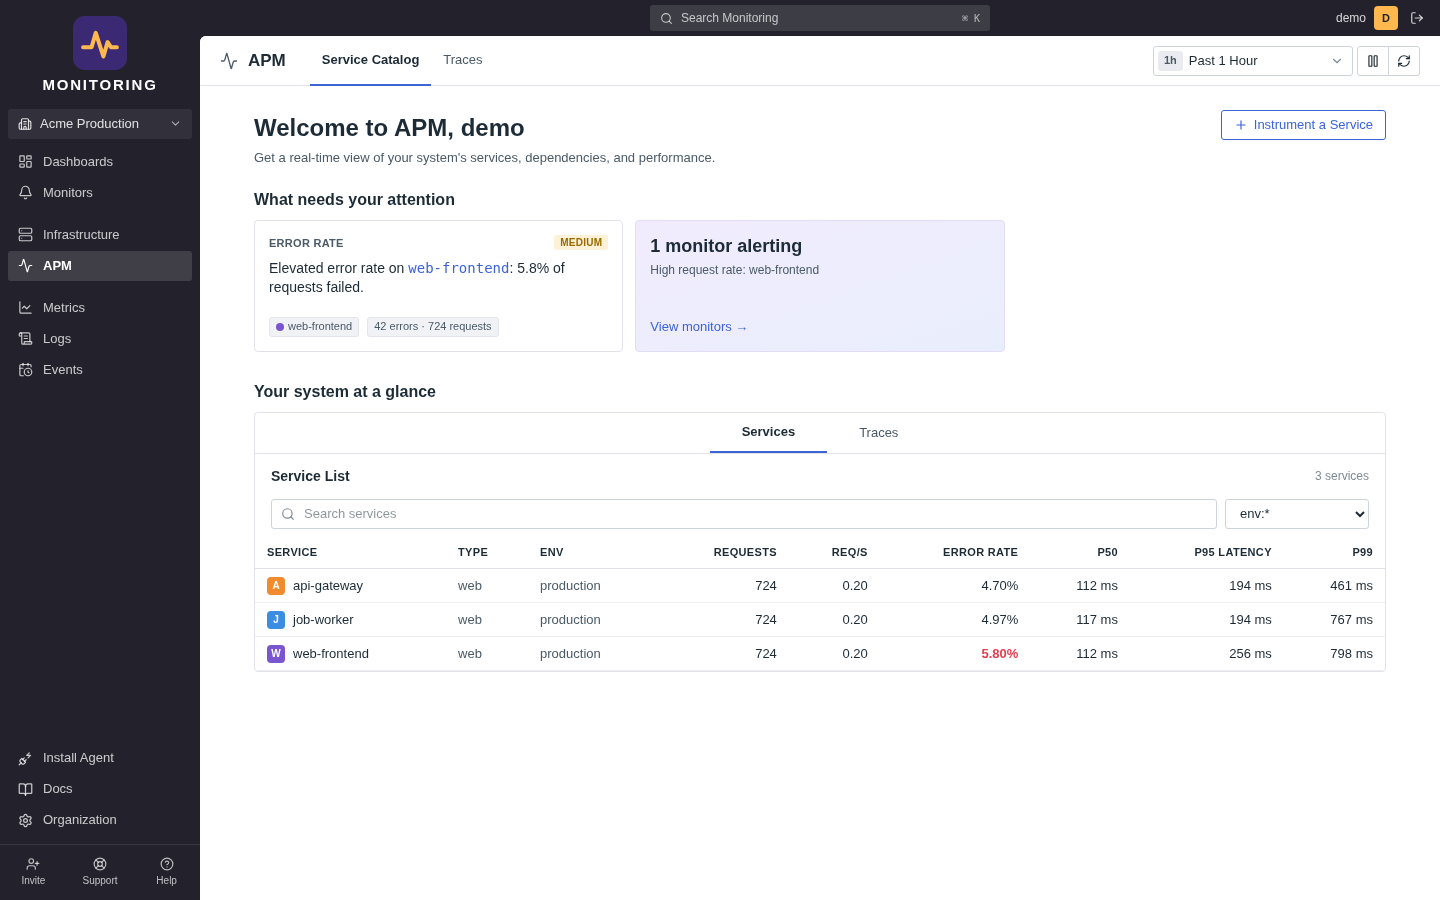
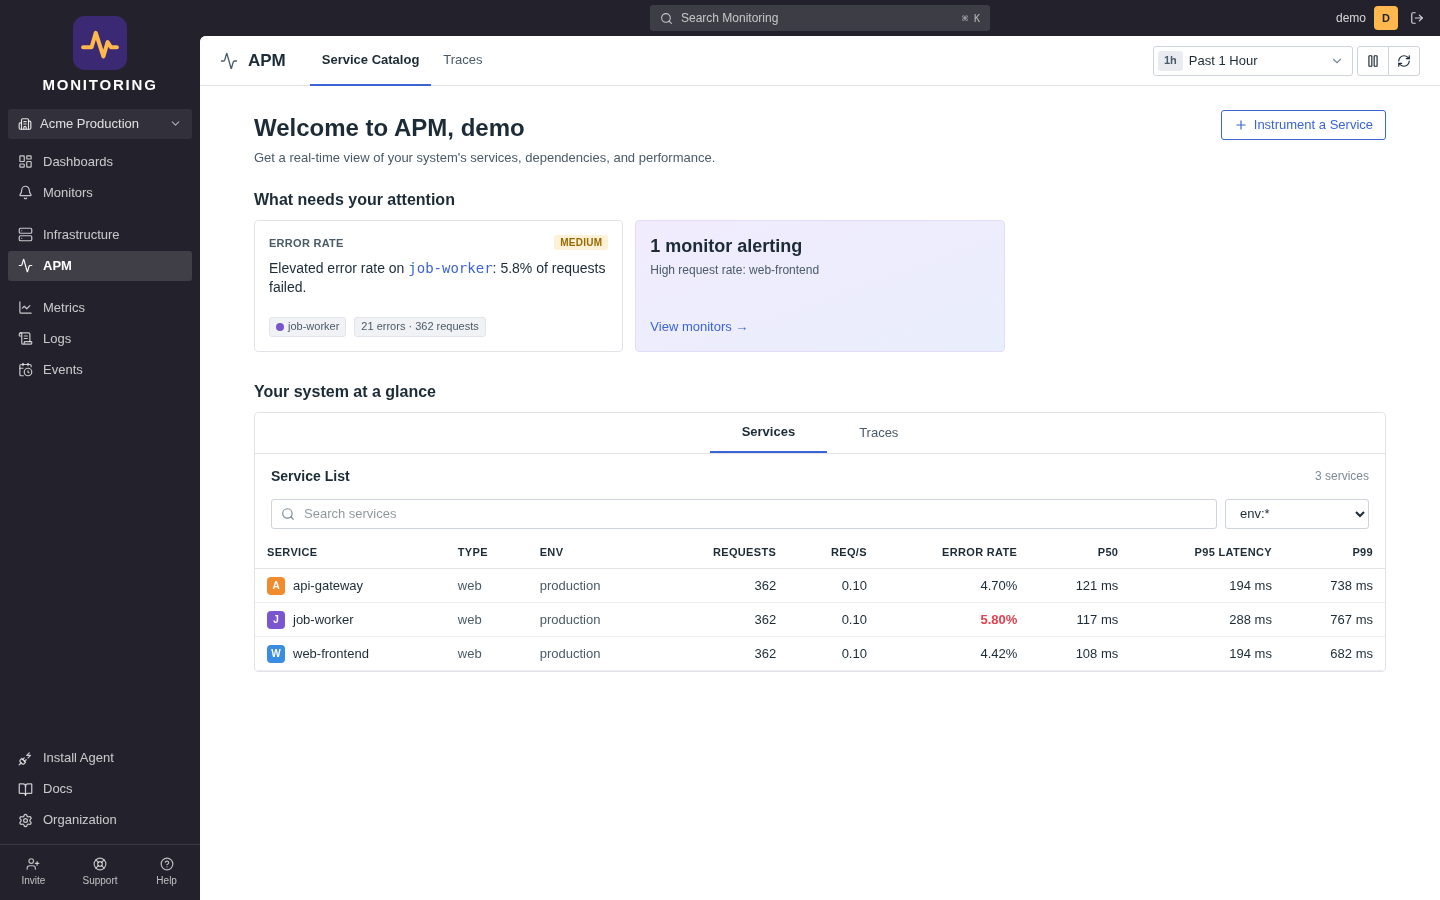
Fix span_stats bootstrap double-count: ensure rollup table + backfill at startup before intake opens (fresh installs counted first-minute spans twice, service catalog showed exactly 2x). Regression bench span-stats-once.js: old build fails 6 checks at exactly 2x, fixed build 10/10; demo reseeded, ca

diff --git a/bench/correctness/span-stats-once.js b/bench/correctness/span-stats-once.js
@@ -1,0 +1,100 @@
+#!/usr/bin/env node
+// Regression: every ingested root span must be counted EXACTLY ONCE in the span_stats rollups.
+//
+//   MONITORING_URL=http://127.0.0.1:4620 MONITORING_SETUP_TOKEN=... DATABASE_URL=postgresql://... node bench/correctness/span-stats-once.js
+//
+// The server must run against a FRESH database (first boot creates span_stats and used to
+// backfill spans that intake had already recorded into its in-memory aggregates, counting
+// them twice - measured 2026-11-21 as exactly 2x root spans on the service catalog).
+// Set MONITORING_STATS_FLUSH_MS low on the server (e.g. 2000) so the flush lands quickly.
+//
+// Asserts, per service: span_stats sum(hits) == raw root spans == traces sent,
+// span_stats sum(errors) == raw error roots == errors sent. Any doubling fails the bench.
+'use strict';
+const http = require('http');
+const crypto = require('crypto');
+const { execSync } = require('child_process');
+
+const DC = process.env.MONITORING_URL || 'http://127.0.0.1:4620';
+const SETUP = process.env.MONITORING_SETUP_TOKEN;
+const RUN = crypto.randomBytes(3).toString('hex');
+const psql = (q) => execSync(`psql "${process.env.DATABASE_URL}" -tAc "${q.replace(/"/g, '\\"')}"`, { encoding: 'utf8' }).trim();
+const sleep = (ms) => new Promise((r) => setTimeout(r, ms));
+const results = [];
+const check = (name, expected, actual, pass) => { results.push({ name, expected, actual, pass: !!pass }); process.stderr.write(`${pass ? 'ok  ' : 'FAIL'} ${name}: expected ${expected}, got ${actual}\n`); };
+
+function req(method, path, body, headers = {}) {
+  return new Promise((resolve) => {
+    const u = new URL(DC + path);
+    const data = body == null ? null : Buffer.from(JSON.stringify(body));
+    const h = { ...(data ? { 'content-type': 'application/json', 'content-length': data.length } : {}), ...headers };
+    const r = http.request({ hostname: u.hostname, port: u.port, path: u.pathname + u.search, method, headers: h }, (res) => {
+      let b = ''; res.on('data', (c) => (b += c)); res.on('end', () => resolve({ status: res.statusCode, headers: res.headers, body: b }));
+    });
+    r.on('error', (e) => resolve({ status: 0, body: String(e.message) }));
+    r.setTimeout(60000, () => r.destroy(new Error('timeout')));
+    if (data) r.write(data); r.end();
+  });
+}
+const json = (r) => { try { return JSON.parse(r.body); } catch { return null; } };
+const ns = (ms) => String(BigInt(ms) * 1000000n);
+
+(async () => {
+  const health = await req('GET', '/api/healthz');
+  if (health.status !== 200) throw new Error(`server not healthy: ${health.status}`);
+  const admin = { email: `stats-${RUN}@monitoring.local`, password: `Stats-${crypto.randomBytes(9).toString('hex')}`, name: 'Stats' };
+  let r = await req('POST', '/api/auth/setup', { ...admin, orgName: `Stats ${RUN}`, setupToken: SETUP });
+  if (r.status !== 200) throw new Error(`setup: ${r.status} ${r.body.slice(0, 200)}`);
+  const login = await req('POST', '/api/auth/login', { email: admin.email, password: admin.password });
+  const cookie = (login.headers['set-cookie'] || []).map((c) => c.split(';')[0]).filter((c) => c.includes('=') && c.split(/=(.*)/s)[1]).join('; ');
+  r = await req('POST', '/api/ui/org/keys', { name: 'stats', kind: 'api' }, { cookie });
+  const key = json(r)?.key;
+  if (!key) throw new Error('no api key');
+
+  // two services with exact known counts: svc1 40 traces + 20 children + 5 errors; svc2 25 traces + 0 children + 3 errors
+  const PLAN = [
+    { service: `stats-a-${RUN}`, traces: 40, children: 20, errors: 5 },
+    { service: `stats-b-${RUN}`, traces: 25, children: 0, errors: 3 },
+  ];
+  const now = Date.now();
+  for (const p of PLAN) {
+    const resourceSpans = [];
+    for (let i = 0; i < p.traces; i++) {
+      const traceId = crypto.randomBytes(16).toString('hex');
+      const rootId = crypto.randomBytes(8).toString('hex');
+      const t = now - 120000 + i * 1000; // inside the current hour, finished minutes
+      const spans = [{ traceId, spanId: rootId, name: `op-${i % 4}`, kind: 2, startTimeUnixNano: ns(t), endTimeUnixNano: ns(t + 50), ...(i < p.errors ? { status: { code: 2 } } : {}) }];
+      if (i < p.children) spans.push({ traceId, spanId: crypto.randomBytes(8).toString('hex'), parentSpanId: rootId, name: 'child', kind: 3, startTimeUnixNano: ns(t), endTimeUnixNano: ns(t + 20) });
+      resourceSpans.push({ resource: { attributes: [{ key: 'service.name', value: { stringValue: p.service } }] }, scopeSpans: [{ scope: { name: 'stats' }, spans }] });
+    }
+    r = await req('POST', '/otlp/v1/traces', { resourceSpans }, { 'dd-api-key': key });
+    if (r.status >= 300) throw new Error(`intake ${p.service}: ${r.status} ${r.body.slice(0, 160)}`);
+  }
+
+  // wait for at least two flush cycles (flush interval is server-side; default 10s)
+  await sleep(Number(process.env.STATS_WAIT_MS ?? 15000));
+
+  let failed = 0;
+  for (const p of PLAN) {
+    const raw = psql(`select count(*), count(*) filter (where parent_id='0'), count(*) filter (where parent_id='0' and error=1) from spans where service='${p.service}'`);
+    const [total, roots, errRoots] = raw.split('\n')[0].split('|').map(Number);
+    const stats = psql(`select coalesce(sum(hits),0), coalesce(sum(errors),0) from span_stats where service='${p.service}'`);
+    const [hits, statErrs] = stats.split('\n')[0].split('|').map(Number);
+    check(`${p.service} raw rows`, `traces+children=${p.traces + p.children}`, total, total === p.traces + p.children);
+    check(`${p.service} raw roots`, p.traces, roots, roots === p.traces);
+    check(`${p.service} rollup hits == roots (counted once)`, p.traces, hits, hits === p.traces);
+    check(`${p.service} rollup errors == raw error roots`, p.errors, `${statErrs} (raw ${errRoots})`, statErrs === p.errors && errRoots === p.errors);
+    if (hits !== p.traces || statErrs !== p.errors) failed++;
+  }
+
+  // second cycle: after another flush the sums must not move (no re-count, no compaction drift)
+  await sleep(Number(process.env.STATS_WAIT_MS ?? 15000));
+  for (const p of PLAN) {
+    const [hits] = psql(`select coalesce(sum(hits),0) from span_stats where service='${p.service}'`).split('\n')[0].split('|').map(Number);
+    check(`${p.service} rollup stable after another flush`, p.traces, hits, hits === p.traces);
+    if (hits !== p.traces) failed++;
+  }
+
+  console.log(JSON.stringify({ suite: 'span-stats-once', total: results.length, failed: results.filter((x) => !x.pass).length, results }, null, 1));
+  process.exit(failed ? 1 : 0);
+})().catch((e) => { console.error(e); process.exit(1); });

diff --git a/artifacts/api-server/src/index.ts b/artifacts/api-server/src/index.ts
@@ -6,7 +6,7 @@ import { storage, useClickHouse } from "./lib/storage";
 import { ensureChSchema } from "./lib/ch";
 import { pool } from "@workspace/db";
 import { generatedSetupToken } from "./routes/auth";
-import { flushSpanStats } from "./query/apmStats";
+import { ensureSpanStats, flushSpanStats } from "./query/apmStats";
 
 const rawPort = process.env["PORT"] ?? "3000";
 const port = Number(rawPort);
@@ -14,6 +14,12 @@ if (Number.isNaN(port) || port <= 0) throw new Error(`Invalid PORT value: "${raw
 
 await migrateDatabase();
 if (useClickHouse) await ensureChSchema();
+// The rollup table must exist (and any backfill must be computed from pre-boot spans only) BEFORE
+// intake can record: a lazy first ensure would backfill spans that intake has already recorded
+// into the pending in-memory aggregates, double-counting them (measured 2026-11-21: service
+// catalog showed exactly 2x root spans on a fresh install). ensureSpanStats is a no-op under
+// ClickHouse and after the first call.
+await ensureSpanStats();
 logger.info({ storage }, "telemetry storage");
 if (generatedSetupToken && !(await pool.query("select 1 from users limit 1")).rowCount) {
   logger.warn(`First-run setup token (enter it on the setup page): ${generatedSetupToken}`);

diff --git a/docs/READINESS.md b/docs/READINESS.md
@@ -46,6 +46,25 @@ anything without one is listed under Not yet verified. Dates are 2026-11-20 (Syd
 - Alerting journey (dashboard -> alert -> webhook -> recovery): 14/14.
 - Unit suite: 63/63.
 
+**Recovery, end to end (agent + server + Postgres)**
+- **Recovery, app -> agent -> server, measured 2026-11-21** (run wo501, 6/6 scenarios,
+  all counts DB-verified per service; evidence bench/evidence/recovery/agent-2026-11-21.json).
+  Harness strips MONITORING_URL from the generator and asserts stored rows carry the agent
+  resource identity (0 topology violations). Agent: otelcol-contrib disk queue; instrumentation
+  delta vs generated default config is observe-only (verified by diff). SDK: RetryingLogExporter
+  + 65536-entry log queue (commit e4ef049). Results, spans/logs stored vs sent, 0 duplicates in
+  every scenario: baseline 18000/18000 + 9000/9000; backend_outage 60s 18000/18000 + 9000/9000
+  (fresh 11.8s after recovery, drained 25.2s); agent_restart SIGTERM 18000/18000 + 9000/9000;
+  db_restart 18000/18000 + 9000/9000; long_outage 240s at 600 spans/s 180000/180000 + 90000/90000
+  (fresh 26.0s, drained 0.4s); agent_kill_pending (SIGKILL with 16MiB/8MiB queue files pending,
+  5867/18000 spans stored at kill) 18000/18000 + 9000/9000 after restart. Stage counters over
+  566 scrapes: max queue depth 581/1000 requests, zero receiver refusals, zero exporter
+  send/enqueue failures. Acceptance rerun under the SHIPPED default agent config (install.sh onboarding path, debug off,
+  run cbazi): same 6 scenarios, all zero-loss, all counts present in final DB state
+  (acceptance-2026-11-21.json). Scope: zero loss in these measured scenarios is not a universal
+  zero-loss guarantee; zero duplicates observed does not prove the queue never double-delivers
+  (server intake has no idempotency keys; semantics are at-least-once).
+
 **Demo journey (M4)**
 - Scripted seed + headless-Chrome screenshots of a realistic org (bench/demo/, evidence
   bench/evidence/demo/): service catalog with error rates, log explorer, dashboard with live
@@ -60,26 +79,9 @@ anything without one is listed under Not yet verified. Dates are 2026-11-20 (Syd
 
 ## Not yet verified (explicit gaps)
 
-- **Recovery, app -> agent -> server, measured 2026-11-21** (run wo501, 6/6 scenarios,
-  all counts DB-verified per service; evidence bench/evidence/recovery/agent-2026-11-21.json).
-  Harness strips MONITORING_URL from the generator and asserts stored rows carry the agent
-  resource identity (0 topology violations). Agent: otelcol-contrib disk queue; instrumentation
-  delta vs generated default config is observe-only (verified by diff). SDK: RetryingLogExporter
-  + 65536-entry log queue (commit e4ef049). Results, spans/logs stored vs sent, 0 duplicates in
-  every scenario: baseline 18000/18000 + 9000/9000; backend_outage 60s 18000/18000 + 9000/9000
-  (fresh 11.8s after recovery, drained 25.2s); agent_restart SIGTERM 18000/18000 + 9000/9000;
-  db_restart 18000/18000 + 9000/9000; long_outage 240s at 600 spans/s 180000/180000 + 90000/90000
-  (fresh 26.0s, drained 0.4s); agent_kill_pending (SIGKILL with 16MiB/8MiB queue files pending,
-  5867/18000 spans stored at kill) 18000/18000 + 9000/9000 after restart. Stage counters over
-  566 scrapes: max queue depth 581/1000 requests, zero receiver refusals, zero exporter
-  send/enqueue failures. Remaining caveats: zero duplicates observed does not prove the queue
-  never double-delivers (server intake has no idempotency keys; semantics are at-least-once);
-  the direct-topology rerun with the fixed SDK is done
-  (direct-fixed-2026-11-21.json); the shipped default agent config acceptance run is done
-  (acceptance-2026-11-21.json, run cbazi: same 6 scenarios via the install.sh onboarding config,
-  all zero-loss, exact counts in final DB state). Scope: zero loss in these measured scenarios is
-  not a universal zero-loss guarantee.
-- **Recovery, app -> server direct, measured 2026-11-20** (evidence
+
+
+- **Direct-mode (agentless) outage loss - OPEN LIMITATION, engineering-side** (evidence
   bench/evidence/recovery/app-direct-2026-11-20.json, all counts DB-verified). A harness wiring bug
   (MONITORING_URL leaking to the generator, which the SDK config reads as "direct mode") made the
   first full-stack run bypass the agent; the rerun above adds the agent-mediated measurements.
@@ -99,11 +101,18 @@ anything without one is listed under Not yet verified. Dates are 2026-11-20 (Syd
     SDK: 59,887/180,000 spans and 83,511/90,000 logs stored (log loss -90.7%), 0 duplicates.
     Span loss is consistent with in-memory queue capacity plus retry expiry (lost volume roughly
     equals outage-window traffic minus the observed buffering), but no stage-level span counter
-    separates the two causes; direct-mode residual loss remains a readiness limitation.
-- **SSO revocation timing**: bounded by the 12h absolute session TTL plus issuance-time ordering; this is
+    separates the two causes; direct-mode residual loss remains a readiness limitation.- **SSO revocation timing**: bounded by the 12h absolute session TTL plus issuance-time ordering; this is
   an explicit exposure limit, not prompt revocation. A fresh callback from an old provider login renewing
   stale claims is covered by iat-ordering + fail-closed ties, but identity-provider-specific behaviors
   (back-channel logout, per-provider claim freshness) are untested - no live IdP was available.
+- **ClickHouse storage path**: compiled and unit-covered but never exercised end-to-end in these
+  benches; every measured result above is the Postgres path. Locally testable, not yet done.
+- **Go agent build**: the CI-built agent binary was used in the recovery suites, but a from-scratch
+  build (agent/build.sh) has not been re-verified in this environment. Locally testable, not yet done.
+- **Concurrency and soak**: the heaviest sustained load measured is 600 spans/s for 5 minutes
+  (long_outage) plus the bounded scale run; no hours-long soak, no high-cardinality stress, no
+  multi-process intake concurrency test beyond the two-process quota checks. Locally testable,
+  not yet done.
 - **Production hardening**: no HTTPS terminator, rate limiting at the edge, HA Postgres, or multi-node
   deployment has been set up or tested; no paid hosting or live deployment is authorized.
 - **Multies bridge**: design documented in docs/MULTIES-BRIDGE.md (B1 workspace API-key binding ready on

diff --git a/docs/ENGINEERING_STATE.md b/docs/ENGINEERING_STATE.md
@@ -333,3 +333,17 @@ queue). 100 spans/s, 60s runs, fault at 20s. Evidence: bench/evidence/recovery/s
   org-settings-usage (Usage & Limits tab, counts matching the seeded totals), org-switcher-open
   (both orgs, roles).
 - Needs MONITORING_ALLOW_PRIVATE_WEBHOOKS=true for the loopback alert sink (documented in bench/demo/README.md).
+
+## 2026-11-21 02:48 span_stats bootstrap double-count: found, fixed, verified
+- Defect (found via demo screenshot review): ensureSpanStats was lazy (first flush or first UI query).
+  On a fresh install its backfill used max(span id) AT THAT MOMENT, which included spans intake had
+  already recorded into the in-memory pending aggregates; those spans were counted twice (backfill +
+  pending flush). Measured: service catalog showed exactly 2x root spans per service (724 vs 362).
+- Fix: artifacts/api-server/src/index.ts awaits ensureSpanStats() at startup BEFORE the listener opens,
+  so backfill's maxId can never include intake-recorded spans (no-op under ClickHouse and on existing
+  installs; upgrade path unchanged - pre-boot spans backfilled exactly once).
+- Regression bench: bench/correctness/span-stats-once.js asserts rollup hits == raw roots == sent, and
+  error sums, across two flush cycles. Negative control on the OLD build: 6 FAILs with exactly 2x
+  (80/40, 50/25, errors 10/5). Fixed build on a fresh DB: 10/10 PASS.
+- Demo reseeded on the fixed build (DEMO_SUMMARY Alert + delivery as before); span_stats hits == 362 ==
+  raw roots per service; all 7 screenshots recaptured and the catalog now reads 362 requests/service.
